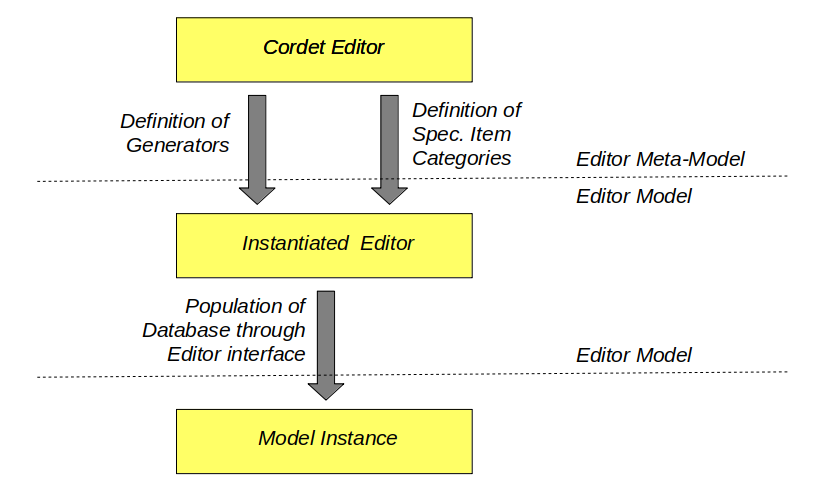
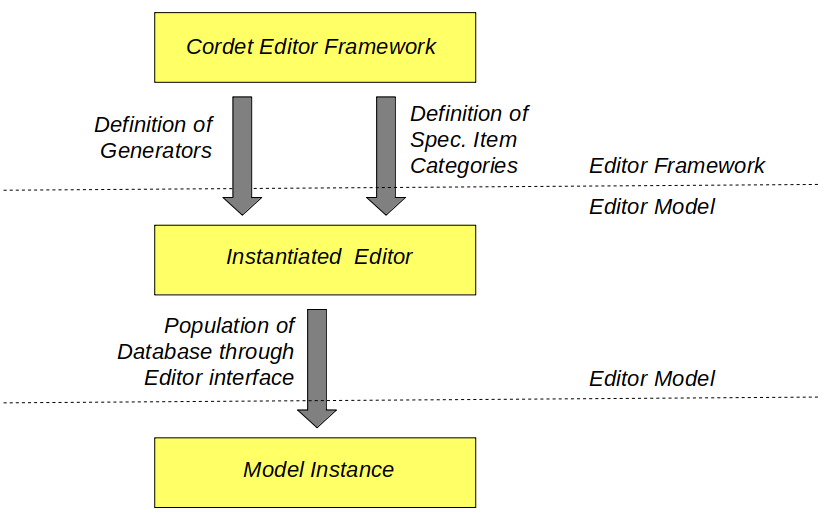
Updated online help (meta-model --> framework)

Changed region(s): [[0.0, 0.0, 0.978, 0.9917], [0.7029, 0.7128, 0.978, 0.7748], [0.2751, 0.8988, 0.489, 0.9298]]

diff --git a/editor/templates/help.html b/editor/templates/help.html
@@ -25,7 +25,7 @@
     </p><p>
     Distinctive features of the editor include:
     <ul>
-    <li>Design based on a <a href="#ModellingLevels">meta-model</a> to allow 
+    <li>Design based on a <a href="#ModellingLevels">framework</a> to allow 
         customization to meet user needs</li>
     <li>Distribution through a free and open licence </li>
     <li>Support for multiple versions of requirements through the <a href="#ValSets">ValSet</a> concept</li>
@@ -52,13 +52,13 @@
     However, projects normally have project-specific categories of requirements, or need to maintain
     project-specific relationships among their requirements, or need to generate
     project-specific artifacts from their requirements.
-    The Cordet FW Editor cater to these needs by being built on 
-    a <a href="#MetaModel">meta-model</a> which users may configure to match their needs.
+    The Cordet FW Editor caters to these needs by being built as 
+    a <a href="#The_Editor_Framework">framework</a> which users may configure to match their needs.
     </p><p>
-    The key concept at meta-modelling level is that of <a href="#Specification_Items">specification item</a>.
+    The key concept at framework level is that of <a href="#Specification_Items">specification item</a>.
     A specification item is a set of specification-related information which are manipulated as 
     a single unit.
-    The editor meta-model defines specification items as an abstract entities upon which certain
+    At framework level, specification items are defined as an abstract entities upon which certain
     operations can be performed (adding a new specification item, editing an existing specification
     item, etc). 
     When users deploy the editor, they are expected to 
@@ -73,9 +73,9 @@
     </p><p>
      
     
-    <h3><a name="MetaModel">The Editor Meta-Model</a></h3>
+    <h3><a name="MetaModel">The Editor Framework</a></h3>
     <p>
-    The editor meta-model is built on the following concepts:
+    The editor framework is built on the following concepts:
     <ul>
     <li><a href="#Users">Users</a></li>
     <li><a href="#ProjAndApp">Projects</a></li>
@@ -318,7 +318,7 @@
     items are imported from an external source and hence it is not possible for the editor to 
     maintain mutliple versions of the same instance).
     </p><p>
-    At meta-modelling level, the editor defines an <a href+"ExtSpecItemInterface">interface to access 
+    At framework level, the editor defines an <a href+"ExtSpecItemInterface">interface to access 
     external specification items</a>.
     During the <a href+"#Editor_Instantiation">editor instantiation process</a>, users implement 
     this interface for their external specification items. 
@@ -872,7 +872,7 @@
     the specification items of a project to, for instance,
     generate code or inputs for documents.
     They are defined as part of the <a href="#Instantiaton">instantiation of the editor</a>.
-    No generators are defined at meta-model levels. 
+    No generators are defined at framework levels. 
     </p><p>    
     This part of the editor is still TBD.
     </p><p>    
@@ -897,7 +897,7 @@
 
     <h3><a name="Instantiation">Editor Instantiation</a></h3>
     <p>
-    The Cordet FW Editor is built on a meta-model which users are expected to instantiate when they deploy the
+    The Cordet FW Editor is built as a framework which users are expected to instantiate when they deploy the
     editor.
     The <a href="#Default_Editor_Model">default instantiation</a> can be used as a blue-print 
     for the user-specific instantiation. 
